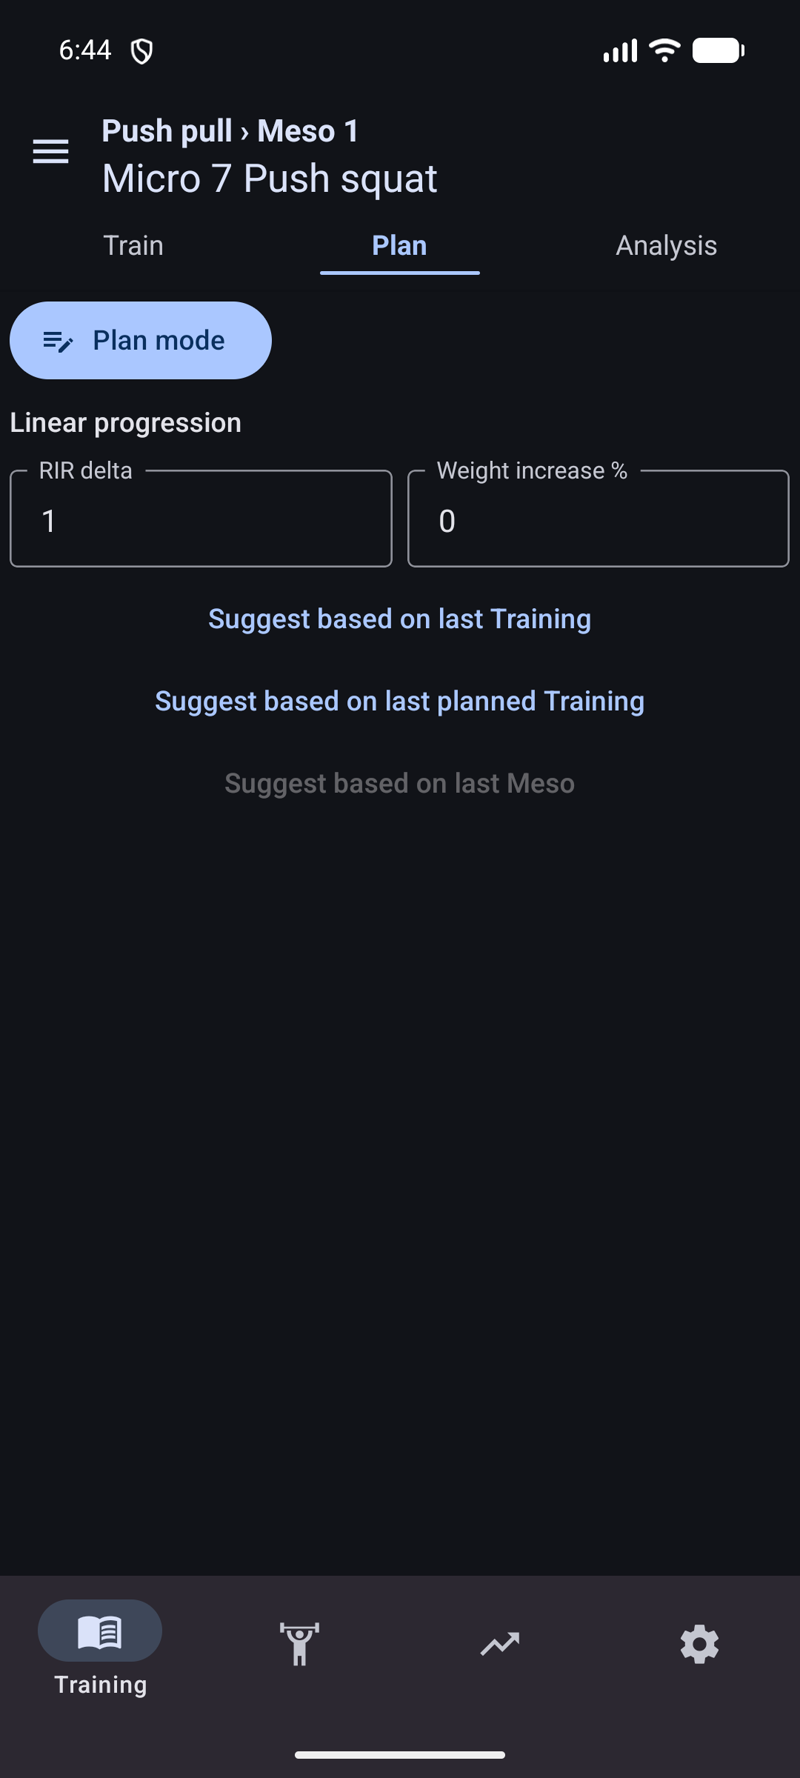
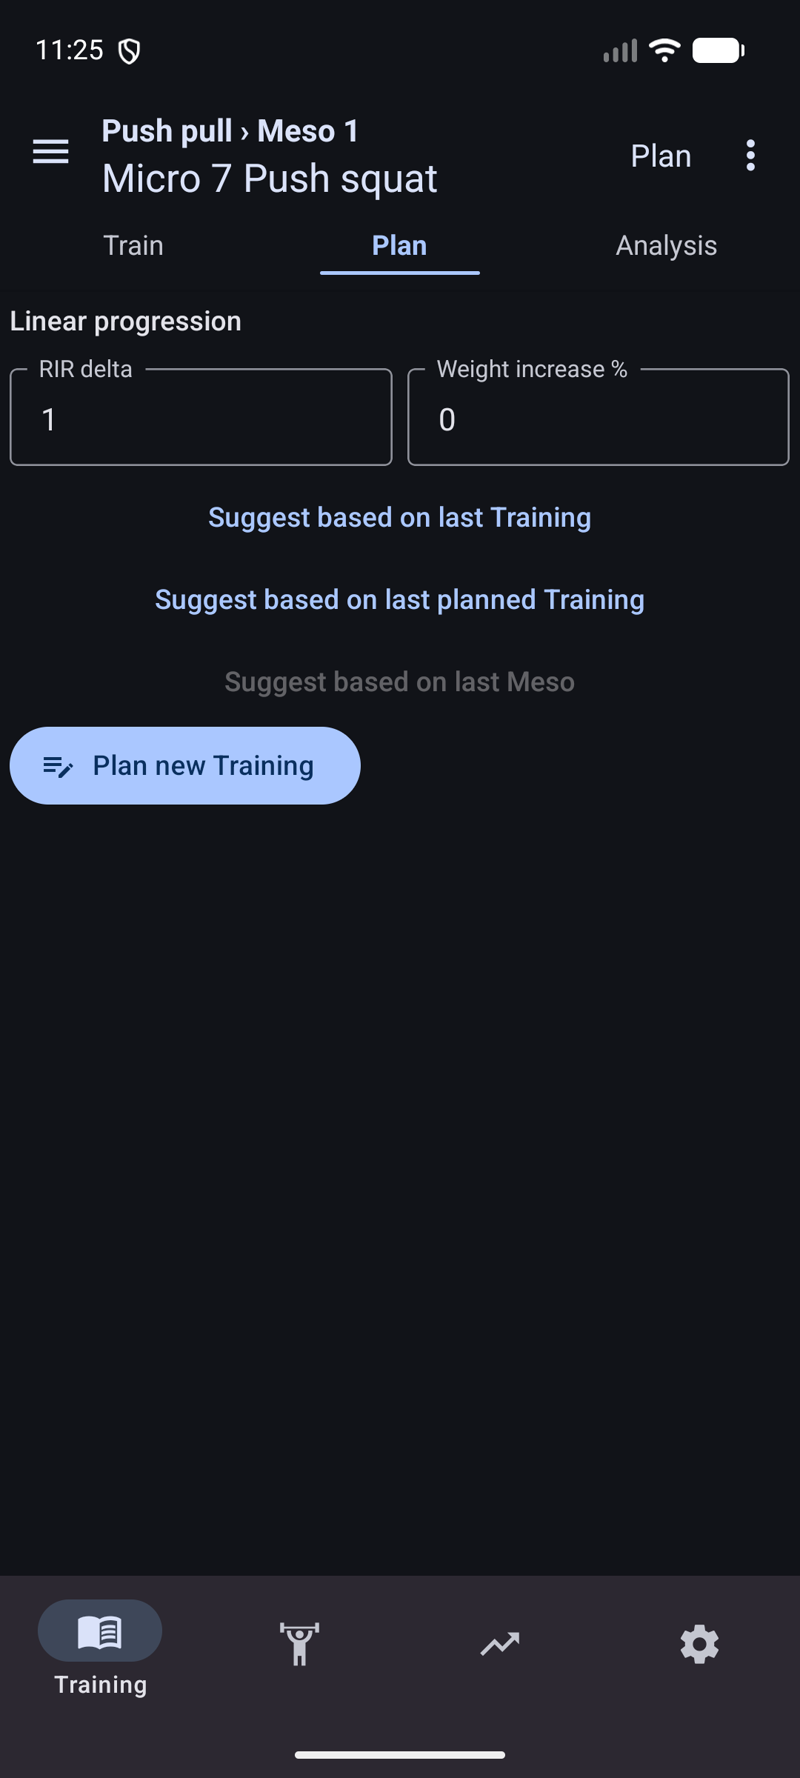
GH-240 r2: rename to 'Plan new Training', move to bottom, slot-aware auto-route
Addresses PR #243 feedback:

1. Rename the new button "Plan mode" → "Plan new Training" (testID kept).
2. Move the button to the BOTTOM of the suggestions list, below the three
   "Suggest based on..." entries, so suggestions remain the primary affordance.
3. Make the auto-route guard slot-aware. RangeSwiper reuses TrainingsBase
   pane instances when navigating between (micro, trainingInMicro) slots, so
   the previous boolean ref only fired once per mount and missed every
   subsequent empty slot. The guard now keys on (planId:micro:trainingInMicro)
   and fires whenever the current slot key has not yet auto-routed.

Tests: TrainingsBase.spec.tsx label assertion updated; two new tests cover
(a) auto-route fires after RangeSwiper switches from a populated slot to an
empty one and (b) auto-route fires on every fresh empty slot when both slots
have no suggestions. All 12 TrainingsBase tests pass.

Maestro flow: assertion updated to "Plan new Training". Refreshed evidence
screenshots showing the renamed button at the bottom of the list and the
picker opening after the tap.

diff --git a/__tests__/components/Training/TrainingsBase.spec.tsx b/__tests__/components/Training/TrainingsBase.spec.tsx
@@ -148,21 +148,22 @@ describe('TrainingsBase', () => {
   });
 
   describe('GH-240 — plan-mode entry', () => {
-    it('renders a Plan mode button when onEnterPlanMode is provided and triggers it on press', () => {
+    it('renders a "Plan new Training" button when onEnterPlanMode is provided and triggers it on press', () => {
       const trainingsPlan = {id: 3, name: 'Push pull', trainings: {}, trainingNames: {}};
       const onEnterPlanMode = jest.fn();
 
-      const {getByTestId} = render(
+      const {getByTestId, getByText} = render(
         <TrainingsBase trainingsPlan={trainingsPlan} micro={2} trainingInMicro={1} onEnterPlanMode={onEnterPlanMode} />,
       );
 
       const button = getByTestId('training-plan-mode-button');
       expect(button).toBeTruthy();
+      expect(getByText('Plan new Training')).toBeTruthy();
       fireEvent.press(button);
       expect(onEnterPlanMode).toHaveBeenCalledTimes(1);
     });
 
-    it('does not render the Plan mode button when onEnterPlanMode is omitted (back-compat)', () => {
+    it('does not render the Plan new Training button when onEnterPlanMode is omitted (back-compat)', () => {
       const trainingsPlan = {id: 3, name: 'Push pull', trainings: {}, trainingNames: {}};
 
       const {queryByTestId} = render(<TrainingsBase trainingsPlan={trainingsPlan} micro={2} trainingInMicro={1} />);
@@ -208,6 +209,45 @@ describe('TrainingsBase', () => {
       rerender(<TrainingsBase trainingsPlan={trainingsPlan} micro={1} trainingInMicro={1} onEnterPlanMode={onEnterPlanMode} />);
 
       expect(onEnterPlanMode).toHaveBeenCalledTimes(1);
+    });
+
+    it('auto-routes again when the slot switches from a populated micro to an empty one (RangeSwiper pane reuse)', () => {
+      // Slot A (micro=2,trainingInMicro=1) has a usable suggestion source — must NOT auto-route.
+      mockedDispatchSuggestBasedOnTrained.mockReturnValue(mockSuggestBasedOnTrained);
+      mockedDispatchSuggestBasedOnPlanned.mockReturnValue(undefined);
+      mockedDispatchSuggestBasedOnLastMeso.mockReturnValue(undefined);
+      const trainingsPlan = {id: 11, name: 'Push pull', trainings: {}, trainingNames: {}};
+      const onEnterPlanMode = jest.fn();
+
+      const {rerender} = render(
+        <TrainingsBase trainingsPlan={trainingsPlan} micro={2} trainingInMicro={1} onEnterPlanMode={onEnterPlanMode} />,
+      );
+      expect(onEnterPlanMode).not.toHaveBeenCalled();
+
+      // RangeSwiper now reuses the same component instance for slot B (micro=3,trainingInMicro=1)
+      // but slot B has no suggestion source — auto-route MUST fire on this fresh slot.
+      mockedDispatchSuggestBasedOnTrained.mockReturnValue(undefined);
+      mockedDispatchSuggestBasedOnPlanned.mockReturnValue(undefined);
+      mockedDispatchSuggestBasedOnLastMeso.mockReturnValue(undefined);
+      rerender(<TrainingsBase trainingsPlan={trainingsPlan} micro={3} trainingInMicro={1} onEnterPlanMode={onEnterPlanMode} />);
+
+      expect(onEnterPlanMode).toHaveBeenCalledTimes(1);
+    });
+
+    it('auto-routes again when switching between two empty slots (each fresh empty slot must trigger the route)', () => {
+      mockedDispatchSuggestBasedOnTrained.mockReturnValue(undefined);
+      mockedDispatchSuggestBasedOnPlanned.mockReturnValue(undefined);
+      mockedDispatchSuggestBasedOnLastMeso.mockReturnValue(undefined);
+      const trainingsPlan = {id: 12, name: 'Push pull', trainings: {}, trainingNames: {}};
+      const onEnterPlanMode = jest.fn();
+
+      const {rerender} = render(
+        <TrainingsBase trainingsPlan={trainingsPlan} micro={1} trainingInMicro={1} onEnterPlanMode={onEnterPlanMode} />,
+      );
+      expect(onEnterPlanMode).toHaveBeenCalledTimes(1);
+
+      rerender(<TrainingsBase trainingsPlan={trainingsPlan} micro={1} trainingInMicro={2} onEnterPlanMode={onEnterPlanMode} />);
+      expect(onEnterPlanMode).toHaveBeenCalledTimes(2);
     });
   });
 });

diff --git a/app/components/Training/TrainingsBase.tsx b/app/components/Training/TrainingsBase.tsx
@@ -55,32 +55,28 @@ const TrainingsBase = ({trainingsPlan, trainingInMicro, micro, onEnterPlanMode}:
   // GH-240: when none of the suggestion paths are available for this micro,
   // we don't want the user staring at an empty suggestions screen. Auto-route
   // them into plan mode (the manual exercise picker / linear plan flow).
+  // The guard is slot-aware because RangeSwiper reuses pane component
+  // instances across micro/trainingInMicro slots — a plain boolean ref would
+  // only fire once per mounted instance and miss subsequent empty slots.
   const noSuggestionsAvailable =
     suggestBasedOnTrained === undefined &&
     suggestBasedOnPlanned === undefined &&
     suggestBasedOnLastMeso === undefined;
-  const autoEnteredPlanModeRef = useRef(false);
+  const autoEnteredSlotKeyRef = useRef<string | null>(null);
   useEffect(() => {
-    if (!noSuggestionsAvailable || onEnterPlanMode === undefined || autoEnteredPlanModeRef.current) {
+    if (!noSuggestionsAvailable || onEnterPlanMode === undefined) {
       return;
     }
-    autoEnteredPlanModeRef.current = true;
+    const slotKey = `${trainingsPlanId}:${micro}:${trainingInMicro}`;
+    if (autoEnteredSlotKeyRef.current === slotKey) {
+      return;
+    }
+    autoEnteredSlotKeyRef.current = slotKey;
     onEnterPlanMode();
-  }, [noSuggestionsAvailable, onEnterPlanMode]);
+  }, [noSuggestionsAvailable, onEnterPlanMode, trainingsPlanId, micro, trainingInMicro]);
 
   return (
     <View style={styles.container}>
-      {onEnterPlanMode !== undefined && (
-        <Button
-          mode="contained"
-          icon="playlist-edit"
-          onPress={onEnterPlanMode}
-          testID="training-plan-mode-button"
-          style={styles.planModeButton}
-        >
-          Plan mode
-        </Button>
-      )}
       <Text variant="titleSmall">Linear progression</Text>
       <View style={styles.inputsContainer}>
         <TextInput
@@ -112,6 +108,17 @@ const TrainingsBase = ({trainingsPlan, trainingInMicro, micro, onEnterPlanMode}:
         <Button disabled={suggestBasedOnLastMeso === undefined} onPress={handleSuggestBasedOnLastMeso} testID="training-suggest-last-meso-button">
           Suggest based on last Meso
         </Button>
+        {onEnterPlanMode !== undefined && (
+          <Button
+            mode="contained"
+            icon="playlist-edit"
+            onPress={onEnterPlanMode}
+            testID="training-plan-mode-button"
+            style={styles.planModeButton}
+          >
+            Plan new Training
+          </Button>
+        )}
       </View>
     </View>
   );
